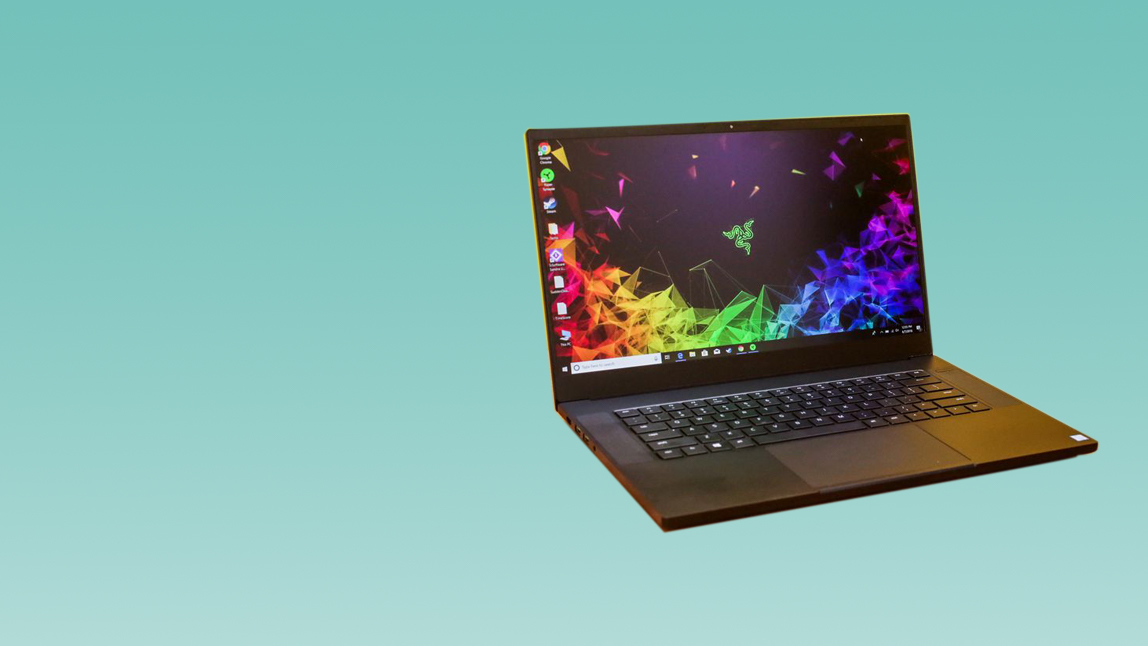
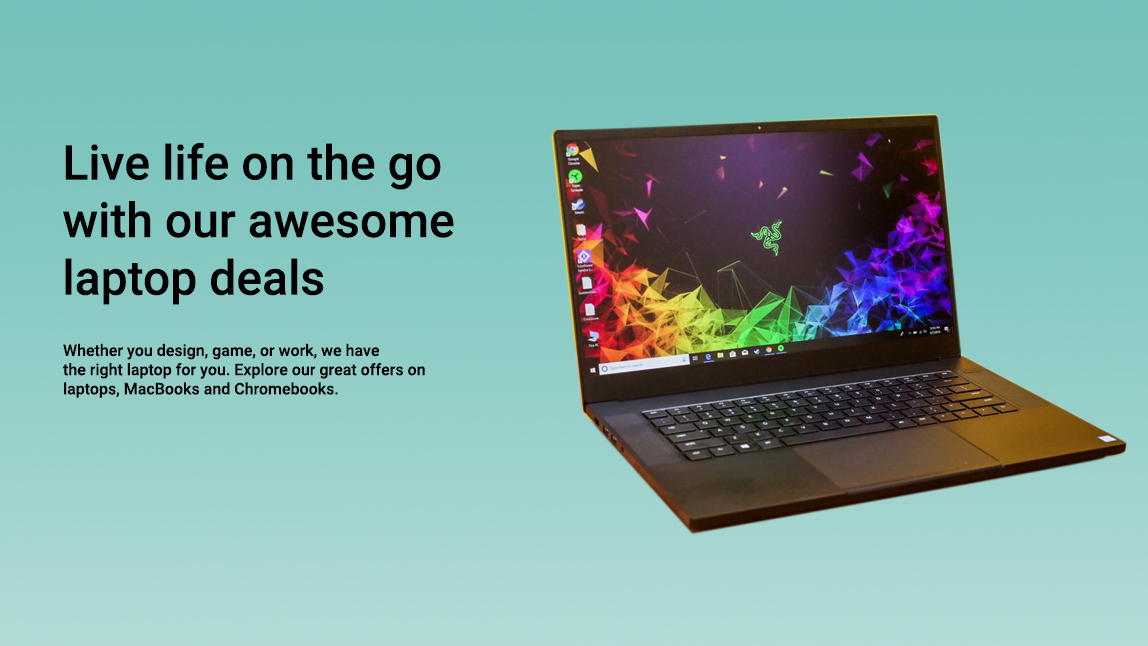
fixed the slideshow in index.html

diff --git a/index.html b/index.html
@@ -53,52 +53,24 @@
     </header>
 
     <!-- Slideshow container -->
-    <div class="slideShow">
-        <img src="img/icon/previous_icon.png" id="previous_button" alt="previous button icon">
-        <img src="img/icon/next_icon.png" id="next_button" alt="next button icon">
-
-        <!-- event 1 content-->
-        <div id="event1">
-            <pre id="event1_heading">Live life on the go
-with our awesome
-laptop deals.</pre>
-
-            <pre id="event1_content">Whether you design, game, or work, we have
-the right laptop for you. Explore our great offers on
-laptops, MacBooks and Chromebooks.</pre>
+    <div class="grid">
+        <div class="grid-col-1of5_noHeight"></div>
+        <div class="grid-col-3of5_noHeight slideShow">
+            <img src="img/event/event1.jpg" alt="event image" id="event_image">
+            <img src="img/icon/previous_icon.png" id="previous_button" alt="previous button icon">
+            <img src="img/icon/next_icon.png" id="next_button" alt="next button icon">
 
             <button id="event1_button" onclick="goToShopDeals()">Shop Deals</button>
-        </div>
-
-        <!-- event 2 content-->
-        <div id="event2">
-            <pre id="event2_heading">GET UP TO
-$300 OFF</pre>
-
-            <pre id="event2_content">For a limited time, we are offering incredible deals on alienware.
-Puls, 6 months financing on purchases $299+
-with Laptophub Account. 
-Limited-time offer for
-qualified cutomers.</pre>
             <button id="event2_button" onclick="goToShopDeals()">Shop Deals</button>
-        </div>
-
-        <!-- event 3 content-->
-        <div id="event3">
-            <pre id="event3_heading">Calling all pros
-For special deals</pre>
-
-            <pre id="event3_content">Our most powerful pro lineup ever - Macbook Pro. 
-Ready for you best work ever.</pre>
-
             <button id="event3_button" onclick="goToShopDeals()">Shop Deals</button>
-        </div>
 
-        <div class="dot_group">
-            <span class="dot" id="dot_one"></span>
-            <span class="dot" id="dot_two"></span>
-            <span class="dot" id="dot_three"></span>
+            <div class="dot_group">
+                <span class="dot" id="dot_one"></span>
+                <span class="dot" id="dot_two"></span>
+                <span class="dot" id="dot_three"></span>
+            </div>
         </div>
+        <div class="grid-col-1of5_noHeight"></div>
     </div>
 
     <!-- Home h1 -->
@@ -374,7 +346,7 @@ Ready for you best work ever.</pre>
         // learned how to save varibles to local storage from 
         // https://stackoverflow.com/questions/27765666/passing-variable-through-javascript-from-one-html-page-to-another-page
         function goToShopDeals() {
-            let eventNumber = $(".slideShow").css("background-image");
+            let eventNumber = $("#event_image").attr("src");
 
             if (eventNumber.includes("event1")) {
                 eventNumber = "first";
@@ -405,10 +377,6 @@ Ready for you best work ever.</pre>
 
         let count = 1;
 
-        $("#event1").css("display", "block");
-        $("#event2").css("display", "none");
-        $("#event3").css("display", "none");
-
         $("#dot_one").css("background-color", "#6200EE");
         $("#dot_two").css("background-color", "white");
         $("#dot_three").css("background-color", "white");
@@ -431,12 +399,12 @@ Ready for you best work ever.</pre>
                 if (count > 1) {
                     count--;
                     let image_url = "img/event/event" + count + ".jpg";
-                    $(".slideShow").css("background-image", "url(" + image_url + ")");
+                    $("#event_image").attr("src", image_url);
 
                 } else {
                     count = 3;
                     let image_url = "img/event/event" + count + ".jpg";
-                    $(".slideShow").css("background-image", "url(" + image_url + ")");
+                    $("#event_image").attr("src", image_url);
 
                 }
             });
@@ -446,60 +414,56 @@ Ready for you best work ever.</pre>
                 if (count < 3) {
                     count++;
                     let image_url = "img/event/event" + count + ".jpg";
-                    if ($(window).width() / parseFloat($("body").css("font-size")) < 37.25) {
-                        $(".slideShow").css("background-image", "url(" + "linear-gradient(#03DAC6, white)" + ")");
-                    } else {
-                        $(".slideShow").css("background-image", "url(" + image_url + ")");
-                    }
+                    $("#event_image").attr("src", image_url);
                 } else {
                     count = 1;
                     let image_url = "img/event/event" + count + ".jpg";
-                    $(".slideShow").css("background-image", "url(" + image_url + ")");
+                    $("#event_image").attr("src", image_url);
                 }
             });
 
             $("#dot_one").click(function () {
                 count = 1;
                 let image_url = "img/event/event" + count + ".jpg";
-                $(".slideShow").css("background-image", "url(" + image_url + ")");
+                $("#event_image").attr("src", image_url);
             });
 
 
             $("#dot_two").click(function () {
                 count = 2;
                 let image_url = "img/event/event" + count + ".jpg";
-                $(".slideShow").css("background-image", "url(" + image_url + ")");
+                $("#event_image").attr("src", image_url);
             });
 
 
             $("#dot_three").click(function () {
                 count = 3;
                 let image_url = "img/event/event" + count + ".jpg";
-                $(".slideShow").css("background-image", "url(" + image_url + ")");
+                $("#event_image").attr("src", image_url);
             });
 
             $("#previous_button,#next_button,#dot_one, #dot_two, #dot_three").on("click", function () {
 
                 if (count == 1) {
-                    $("#event1").css("display", "block");
-                    $("#event2").css("display", "none");
-                    $("#event3").css("display", "none");
+                    $("#event1_button").css("display", "block");
+                    $("#event2_button").css("display", "none");
+                    $("#event3_button").css("display", "none");
 
                     $("#dot_one").css("background-color", "#6200EE");
                     $("#dot_two").css("background-color", "white");
                     $("#dot_three").css("background-color", "white");
                 } else if (count == 2) {
-                    $("#event1").css("display", "none");
-                    $("#event2").css("display", "block");
-                    $("#event3").css("display", "none");
+                    $("#event1_button").css("display", "none");
+                    $("#event2_button").css("display", "block");
+                    $("#event3_button").css("display", "none");
 
                     $("#dot_one").css("background-color", "white");
                     $("#dot_two").css("background-color", "#6200EE");
                     $("#dot_three").css("background-color", "white");
                 } else if (count == 3) {
-                    $("#event1").css("display", "none");
-                    $("#event2").css("display", "none");
-                    $("#event3").css("display", "block");
+                    $("#event1_button").css("display", "none");
+                    $("#event2_button").css("display", "none");
+                    $("#event3_button").css("display", "block");
 
                     $("#dot_one").css("background-color", "white");
                     $("#dot_two").css("background-color", "white");

diff --git a/css/index.css b/css/index.css
@@ -24,92 +24,37 @@ label {
 
 .slideShow {
     position: relative;
-    background-image: url(../img/event/event1.jpg);
-    background-repeat: no-repeat;
-    background-size: cover;
-    background-position: center;
     color: black;
-    height: 100vh;
+}
+
+#event_image {
+    width: 100%;
 }
 
 /* styling for event1 */
 
-#event1_heading {
-    font-size: 2em;
-    font-weight: bold;
-    position: absolute;
-    font-family: sans-serif;
-    top: 15%;
-    left: 8%;
-}
-
-#event1_content {
-    font-family: sans-serif;
-    font-size: 1.5em;
-    font-weight: bold;
-    position: absolute;
-    top: 50%;
-    left: 8%;
-}
-
 #event1_button {
     top: 65%;
-    left: 8%;
+    left: 5%;
     z-index: 2;
 }
 
 /* styling for event2 */
 
-#event2_heading {
-    color: white;
-    font-size: 2em;
-    font-weight: bold;
-    position: absolute;
-    font-family: sans-serif;
-    top: 15%;
-    left: 8%;
-}
-
-#event2_content {
-    color: white;
-    font-family: sans-serif;
-    font-size: 1.5em;
-    font-weight: bold;
-    position: absolute;
-    top: 42%;
-    left: 8%;
-}
-
 #event2_button {
     top: 65%;
-    left: 8%;
+    left: 9%;
     z-index: 2;
+    display: none;
 }
 
 /* styling for event3 */
 
-#event3_heading {
-    font-size: 2em;
-    font-weight: bold;
-    position: absolute;
-    font-family: sans-serif;
-    top: 20%;
-    left: 55%;
-}
-
-#event3_content {
-    font-family: sans-serif;
-    font-size: 1.5em;
-    font-weight: bold;
-    position: absolute;
-    top: 48%;
-    left: 55%;
-}
-
 #event3_button {
     top: 60%;
-    left: 55%;
+    left: 54%;
     z-index: 2;
+    display: none;
 }
 
 .slideShow button {
@@ -154,11 +99,12 @@ label {
 
 .dot_group {
     position: absolute;
-    bottom: 1em;
-    left: 45%;
+    bottom: 10%;
+    left: 40%;
 }
 
 .dot {
+    z-index: 99;
     cursor: pointer;
     height: 1em;
     width: 1em;
@@ -304,10 +250,12 @@ footer {
         width: 80%;
         margin-left: 10%;
         margin-right: 10%;
-        ;
     }
-    .slideShow {
+    #previous_button, #next_button {
         display: none;
+    }
+    #event1_button, #event2_button, #event13button {
+        font-size: 0.5em;
     }
     #event1_heading h1 {
         font-size: 1em;

diff --git a/css/grids.css b/css/grids.css
@@ -59,14 +59,17 @@
 }
 
 /* Grid col 15 of 100 for about us page */
+
 .grid-col-15of100_noHeight {
   flex: 1 1 15%;
 }
+
 .grid-col-7of10_noHeight {
   flex: 1 1 70%;
 }
 
 /* Grid col 3 of 5 for sign-in page */
+
 .grid-col-2of5 {
   flex: 1 1 40%;
   height: 100%;
@@ -82,10 +85,6 @@
   height: 100%;
   /* Delete the scroll bar to make the UI clear */
   /* overflow: scroll; */
-}
-
-.grid-col-1of3_noHeight {
-  flex: 1 1 33.33%;
 }
 
 .grid-col-2of3_noHeight {
@@ -107,8 +106,8 @@
   height: 100%;
 }
 
-
 /* vertical grid  */
+
 .grid-row-1of3 {
   flex: 1 1 33.33%;
   flex-direction: column;
